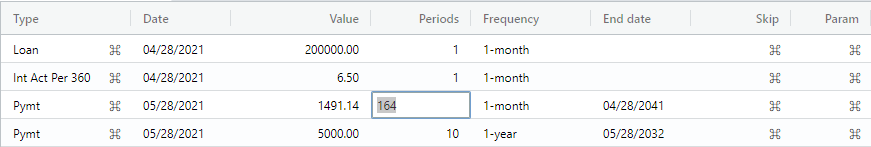
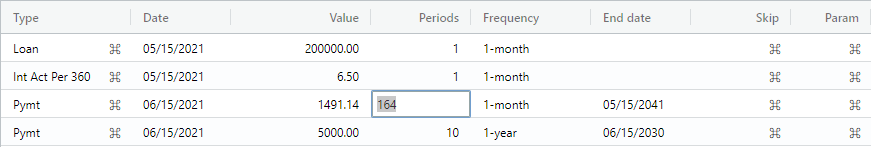
Clear status on final tab close; update tutorials

diff --git a/site/locales/en-US/help/concepts.html b/site/locales/en-US/help/concepts.html
@@ -23,6 +23,7 @@
             <div class="section-inner-nav">			
                 <ul>                
                     <li><a href="#overview">Overview of the AmFn Wasm.</a></li>
+                    <li><a href="#locales">Locales and initialization.</a></li>
 					<li><a href="#combinations">Event combinations.</a></li>
                     <li><a href="#eventkeys">Event grid keyboard conventions.</a></li>
                     <li><a href="#eventtypes">Basic event types.</a></li>
@@ -46,8 +47,6 @@
             in Rust. While in general, a cashflow represents a movement of money, an amortization cashflow 
             usually involves interest changes. An amortization cashflow can be negative, such
             as car loans, mortgages, etc., or positive, such as annuities, bonds, investments, etc.</p>
-            
-            <h4 id="eventdriven">Event-driven</h4>
 
             <p>The AmFn Wasm can simultaneously handle multiple open cashflows. Each cashflow is represented
             by a tab. Clicking on a tab shows the coresponding cashflow. Each cashflow has an event grid at 
@@ -55,6 +54,8 @@
             and summary information that can be shown when needed.</p>
         
             <p><img src="images/cashflow.png"></p>
+            
+            <h4 id="event-driven">Event-driven</h4>
             
             The AmFn Wasm is an "event-driven" amortization cashflow calculator. The top event grid for a
             cashflow is editable. In contrast, the amortization grid, status line, and summary
@@ -65,37 +66,43 @@
             is a quick and easy task. Another benefit is that events also decrease the amount of user
             input required to create and actively maintain a cashflow.</p>
             
-            <h4 id="continuous">Continuous cashflow</h4>
+            <h4 id="amortization">Amortization schedule</h4>
 
             <p>The continuity of the cashflow is maintained even through certain types of events, such
             as interest rate changes. This preserves any unresolved accrued interest from previous interest 
             rate periods.</p>
-            
-            <h4 id="amortization">Amortization schedule</h4>
-            
+                
             <p>All events are based upon real dates and can occur on "any" date within the cashflow, which
             can also result in stub periods and odd days interest. This allows for powerful "whatever
             scenarios" within cashflows that can easily service increasingly competitive, consumer
             oriented markets and financial products.</p>
 
-            <p>Anytime event fields are updated by the user, the amortization grid, status line, and summary
+            <p>When event fields are updated by the user, the amortization grid, status line, and summary
             information are all automatically recalculated.</p>
-            
-            <h4 id="locales">Locales</h4>
-
-            <p>Multiple locale information is consistently used throughout AmFn Wasm, along with applicable
-            ISO (International Standards Organization) standards, to allow for the simultaneous calculation
-            and display of different currencies, date formats, number formats, and spoken languages. The 
-            AmFn Wasm is internationalized and globalized, thus allowing it to be
-            adapted to another spoken language, all from external locale definitions.</p>
-            
+                
             <h4 id="templates">Templates</h4>
 
             <p>AmFn Wasm can be functionally customized to a high degree by it's built-in
             template facility in order to create different functional processes for each type of 
             cashflow such as mortgage loans, consumer loans, bonds, annuities, investments, etc.</p>
             
-            <h3 id="combinations">Event combinations</h3>
+            <h3 id="locales">Locales and initialization.</h3>
+
+            <p>Multiple locale information is consistently used throughout AmFn Wasm, along with applicable
+            ISO (International Standards Organization) standards, to allow for the simultaneous calculation
+            and display of different currencies, date formats, number formats, and spoken languages. The 
+            AmFn Wasm is internationalized and globalized, thus allowing it to be
+            adapted to another spoken language, all from external locale definitions.</p>
+
+            <p>A locale is an externally defined collection of JSON and other files under the "locales" folder 
+            followed by the locale string (e.g., "locales/en-US"). The locale's files include the user preferences,
+            core locale information, templates, help, and tutorials.</p>
+    
+            <p>When the AmFn Wasm is initialized, it attempts to determine an appropriate locale by
+            checking "navigator.languages" against the available locales. In the event a locale
+            cannot be found, the default available locale will be used ("en-US").</p>
+            
+            <h3 id="combinations">Event combinations.</h3>
 			
 			<p>A number of approaches can create event combinations meant to handle different scenarios:</p>
 

diff --git a/site/locales/en-US/tutorials/loan/loan.html b/site/locales/en-US/tutorials/loan/loan.html
@@ -37,23 +37,27 @@
             <div class="inner-content">
 
             <h3 id="overview">Loan tutorial overview.</h3>
-
+    
             <p>This tutorial creates a loan with an odd-days period (i.e., a stub period). The tutorial then
             applies an annual bump payment for 10 years, which could represent an annual bonus. Finally,
             the periods of the regular payment event is calculated to reduce the term of the loan. The overall Annual
             Percentage Rate (APR) and associated Reg-Z information are also calculated and shown in the summary.</p>
 
+            <p><em>Please enter the dates given in this tutorial to avoid any automatic date adjustments (e.g.,
+            leap year) that can affect the final cashflow balance.</em></p>
+    
             <p><em>Note: This tutorial meant is for the default en-US locale. If another locale is chosen, the AmFn Wasm
             will handle the date format, decimal format, currency format, and spoken language resources for that
             locale.</em></p>
 
             <h3 id="createloan">Create loan cashflow.</h3>
 
-            <p>Let's begin by selecting the File -> New menu item. A dialog is displayed asking you to enter
+            <p>Let's begin by selecting the File -> New Cashflow menu item. A dialog is displayed asking you to enter
             a cashflow name and select a template for this cash flow. Please enter the name of your cashflow,
             select "Standard loan", and press the Submit button.</p>
             
             <p>A new cash flow is created with a "Loan" event preselected for you. Press the Enter key 
+            until you are positioned in the "Date" column and enter 05/15/2021. Press the Enter key 
             until you are positioned in the "Value" column and enter 200000 (i.e., two hundred thousand).</p>
 
             <p><img src="images/loan1.png"></p>
@@ -89,9 +93,10 @@
             <p>Press the Insert button, which will show the event that can be created into the cashflow
             from the loan template. Select the "Normal payment" event and press the Submit button.</p>
 
-            <p>Press the Enter key until you are positioned in the "Value" column and enter 5000 (i.e., 
-            Five thousand). Press the Enter key once and enter 10 periods. Finally, press the Enter
-            key once and select a "1-year" frequency (i.e., annual bump payments).</p>
+            <p>Press the Enter key until you are positioned in the "Date" column and enter the same date
+			as the regular payment. Press the Enter key until your are positioned on the "Value" column 
+			and enter 5000 (i.e., Five thousand). Press the Enter key once and enter 10 periods. Finally, 
+			press the Enter key once and select a "1-year" frequency (i.e., annual bump payments).</p>
 
             <p><img src="images/loan5.png"></p>
 

diff --git a/site/locales/en-US/tutorials/bond/bond.html b/site/locales/en-US/tutorials/bond/bond.html
@@ -36,23 +36,27 @@
             <div class="inner-content">
 
             <h3 id="overview">Bond tutorial overview.</h3>
-
+    
             <p>This tutorial presents a 10-year bond having a day count basis of 30/360. The bond has
             semi-annual compounding and pays a fixed semi-annual coupon amount of 125.00. Additionally,
             a "call" is placed on the bond after 8 years, which shows the value of the bond at that time
             (i.e., in contrast to the par value at maturity).</p>
 
+            <p><em>Please enter the dates given in this tutorial to avoid any automatic date adjustments (e.g.,
+            leap year) that can affect the final cashflow balance.</em></p>
+    
             <p><em>Note: This tutorial meant is for the default en-US locale. If another locale is chosen, the AmFn Wasm
             will handle the date format, decimal format, currency format, and spoken language resources for that
             locale.</em></p>
     
             <h3 id="createbond">Create bond cashflow.</h3>
 
-            <p>Let's begin by selecting the File -> New menu item. A dialog is displayed asking you to enter
+            <p>Let's begin by selecting the File -> New Cashflow menu item. A dialog is displayed asking you to enter
             a cashflow name and select a template for this cash flow. Please enter the name of your cashflow,
             select "Standard bond", and press the Submit button.</p>
             
             <p>A new cash flow is created with a "Price" event preselected for you. Press the Enter key 
+            until you are positioned in the "Date" column and enter 05/15/2021. Next, press the Enter key 
             until you are positioned in the "Value" column and enter 10000 (i.e., i.e., the issue price of 
             the bond is ten thousand). Finally, press the Enter key until you are positioned in the "Frequency" 
             column and select a "6-month" (semi-annual) frequency.</p>
@@ -91,10 +95,11 @@
             <p>Finally, press the Insert button, select Call value, and press the Submit button to create a
             "Call" event. Press the Enter key until you are positioned in the "Date" column and change the 
             date to two years earlier.</p>
-            
-            <p>Notice the Balance column of the Call value within the amortization.</p>
 
             <p><img src="images/bond5.png"></p>
+            
+            <p>In the Call value event within the lower amortization grid, we can see that the Balance 
+			column has a value of 11900.54.</p>
 
         </div>
     </main>

diff --git a/site/locales/en-US/tutorials/annuity/annuity.html b/site/locales/en-US/tutorials/annuity/annuity.html
@@ -36,7 +36,7 @@
             <div class="inner-content">
 
             <h3 id="overview">Annuity tutorial overview.</h3>
-
+    
             <p>This tutorial presents an annuity with an initial premium, a semi-annual compounding and a
             guaranteed interest period of 10 years at 6% under the simple interest method (i.e., interest
             is not compounded back into the principal). Thereafter the renewal interest rate is set at 3.5%
@@ -44,17 +44,21 @@
             a periodic semi-annual premium of 600.00 is made for the first 10 years. Following that, a
             semi-annual withdrawal of 1200.00 is paid for the next 10 years with a remaining balance thereafter.</p>
 
+            <p><em>Please enter the dates given in this tutorial to avoid any automatic date adjustments (e.g.,
+            leap year) that can affect the final cashflow balance.</em></p>
+    
             <p><em>Note: This tutorial meant is for the default en-US locale. If another locale is chosen, the AmFn Wasm
             will handle the date format, decimal format, currency format, and spoken language resources for that
             locale.</em></p>
     
             <h3 id="createannuity">Create annuity cashflow.</h3>
 
-            <p>Let's begin by selecting the File -> New menu item. A dialog is displayed asking you to enter
+            <p>Let's begin by selecting the File -> New Cashflow menu item. A dialog is displayed asking you to enter
             a cashflow name and select a template for this cash flow. Please enter the name of your cashflow,
             select "Standard annuity", and press the Submit button.</p>
             
             <p>A new cash flow is created with a "Initial premium" event preselected for you. Press the Enter key 
+                until you are positioned in the "Date" column and enter 05/15/2021. Next, press the Enter key 
             until you are positioned in the "Value" column and enter 10000 (i.e., ten thousand). Finally,
             Press the Enter key until you are positioned in the "Frequency" column and select a "6-month"
             (semi-annual) frequency.</p>
@@ -99,7 +103,7 @@
 
             <p><img src="images/annuity5.png"></p>
 
-            <p>On the status line we can see that 21352.11 remains in the annuity.</p>
+            <p>On the status line we can see that 21532.11 remains in the annuity.</p>
 
         </div>
     </main>

diff --git a/site/locales/en-US/tutorials/investment/investment.html b/site/locales/en-US/tutorials/investment/investment.html
@@ -36,25 +36,29 @@
             <div class="inner-content">
 
             <h3 id="overview">Investment tutorial overview.</h3>
-
+    
             <p>This tutorial presents a typical investment intended for an individual's retirement that
             starts with an initial investment amount and a small monthly periodic investment (i.e.,
             contribution). In addition, an annual statistic event is created to accumulate annual totals
             for the investment.</p>
 
+            <p><em>Please enter the dates given in this tutorial to avoid any automatic date adjustments (e.g.,
+            leap year) that can affect the final cashflow balance.</em></p>
+    
             <p><em>Note: This tutorial meant is for the default en-US locale. If another locale is chosen, the AmFn Wasm
             will handle the date format, decimal format, currency format, and spoken language resources for that
             locale.</em></p>
     
             <h3 id="createinvestment">Create investment cashflow.</h3>
 
-            <p>Let's begin by selecting the File -> New menu item. A dialog is displayed asking you to enter
+            <p>Let's begin by selecting the File -> New Cashflow menu item. A dialog is displayed asking you to enter
             a cashflow name and select a template for this cash flow. Please enter the name of your cashflow,
             select "Standard investment", and press the Submit button.</p>
     
             <p>A new cash flow window is created with an "Init Inv" (i.e., initial investment) event preselected
-            for you. Press the Enter key until you are positioned in the "Value" column and enter 10000 (i.e.,
-            our initial investment is ten thousand)</p>
+            for you. Press the Enter key until you are positioned in the "Date" column and enter 05/15/2021. Press
+            the Enter key until you are positioned in the "Value" column and enter 10000 (i.e., our initial investment
+            is ten thousand)</p>
 
             <p><img src="images/investment1.png"></p>
 

diff --git a/site/utility.js b/site/utility.js
@@ -628,6 +628,16 @@ class ChartUtility {
     }
 
     /**
+     * Clear status line.
+     */
+     static clearStatusLine() {
+
+        let divStatus = document.getElementById("divStatus");
+
+        divStatus.innerText = "";  
+    }
+
+    /**
      * Refresh status line.
      * @param {object} self Self object.
      */

diff --git a/site/index.js b/site/index.js
@@ -894,6 +894,8 @@ class EventHelper {
         if (secHelp.classList.contains("display-none")) {
             secHelp.classList.remove("display-none");
         }
+
+        Updater.clearStatusLine();
     }
     
     /**
